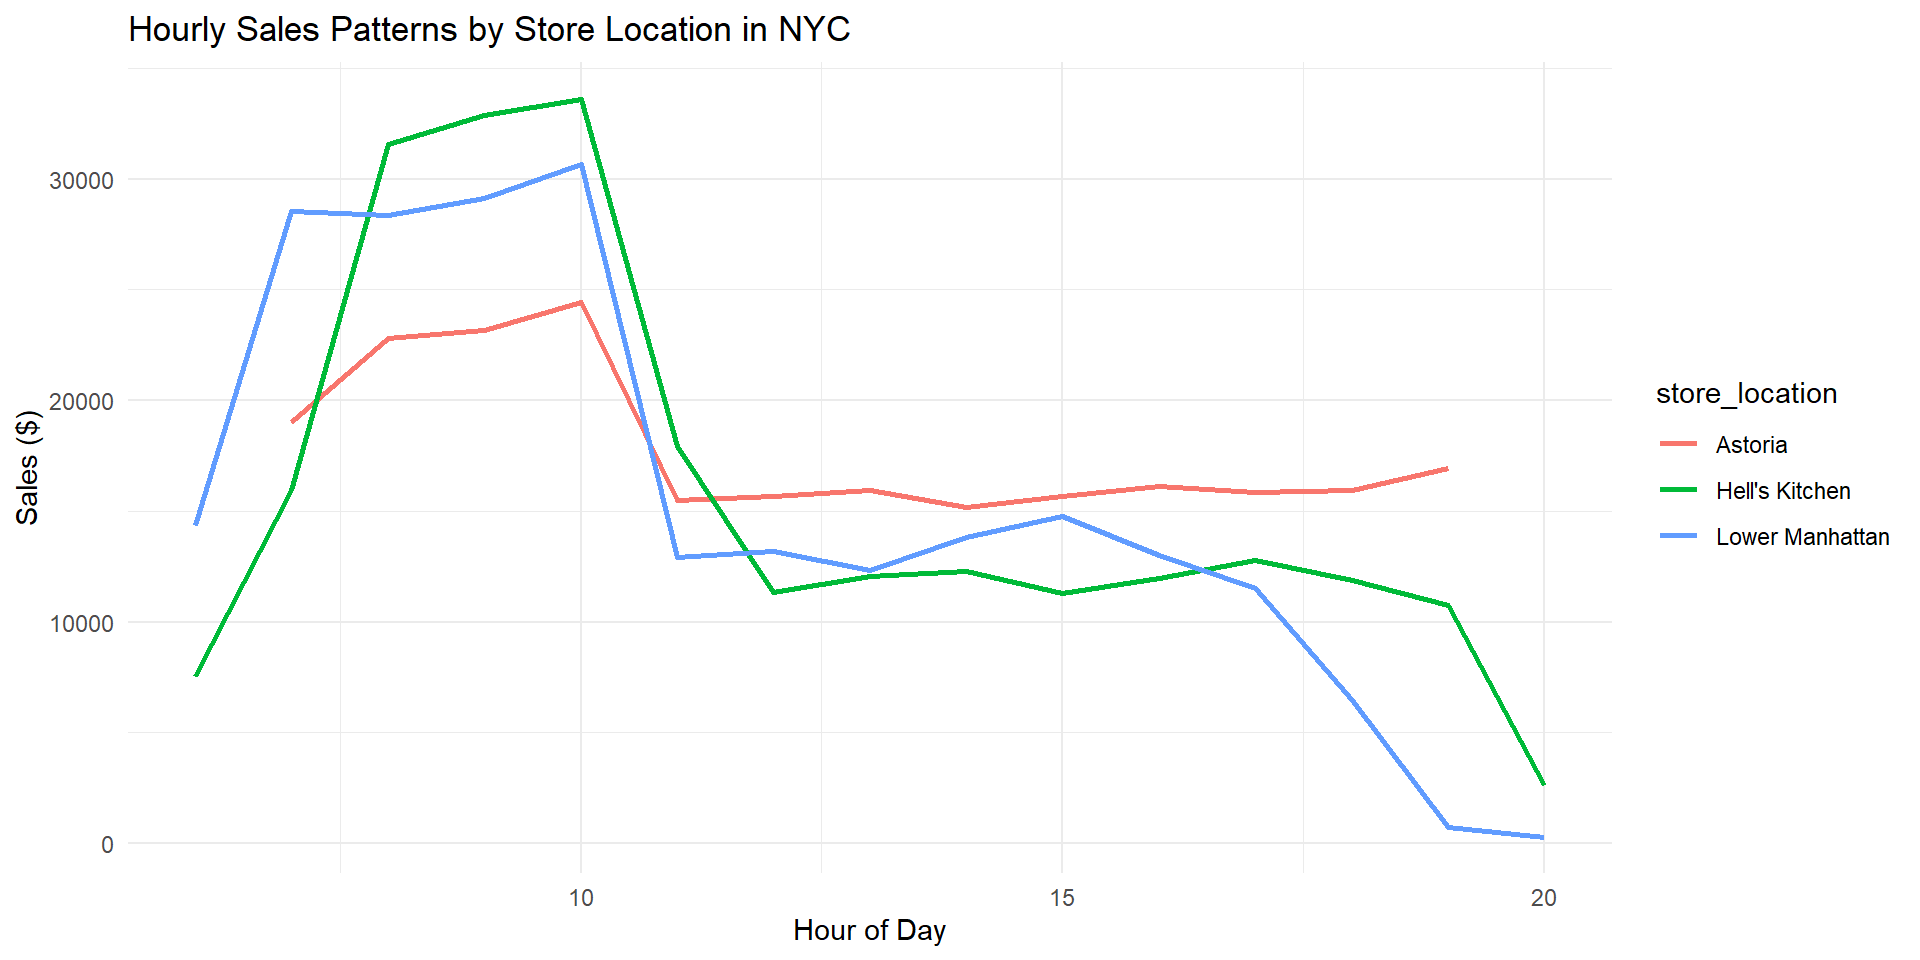
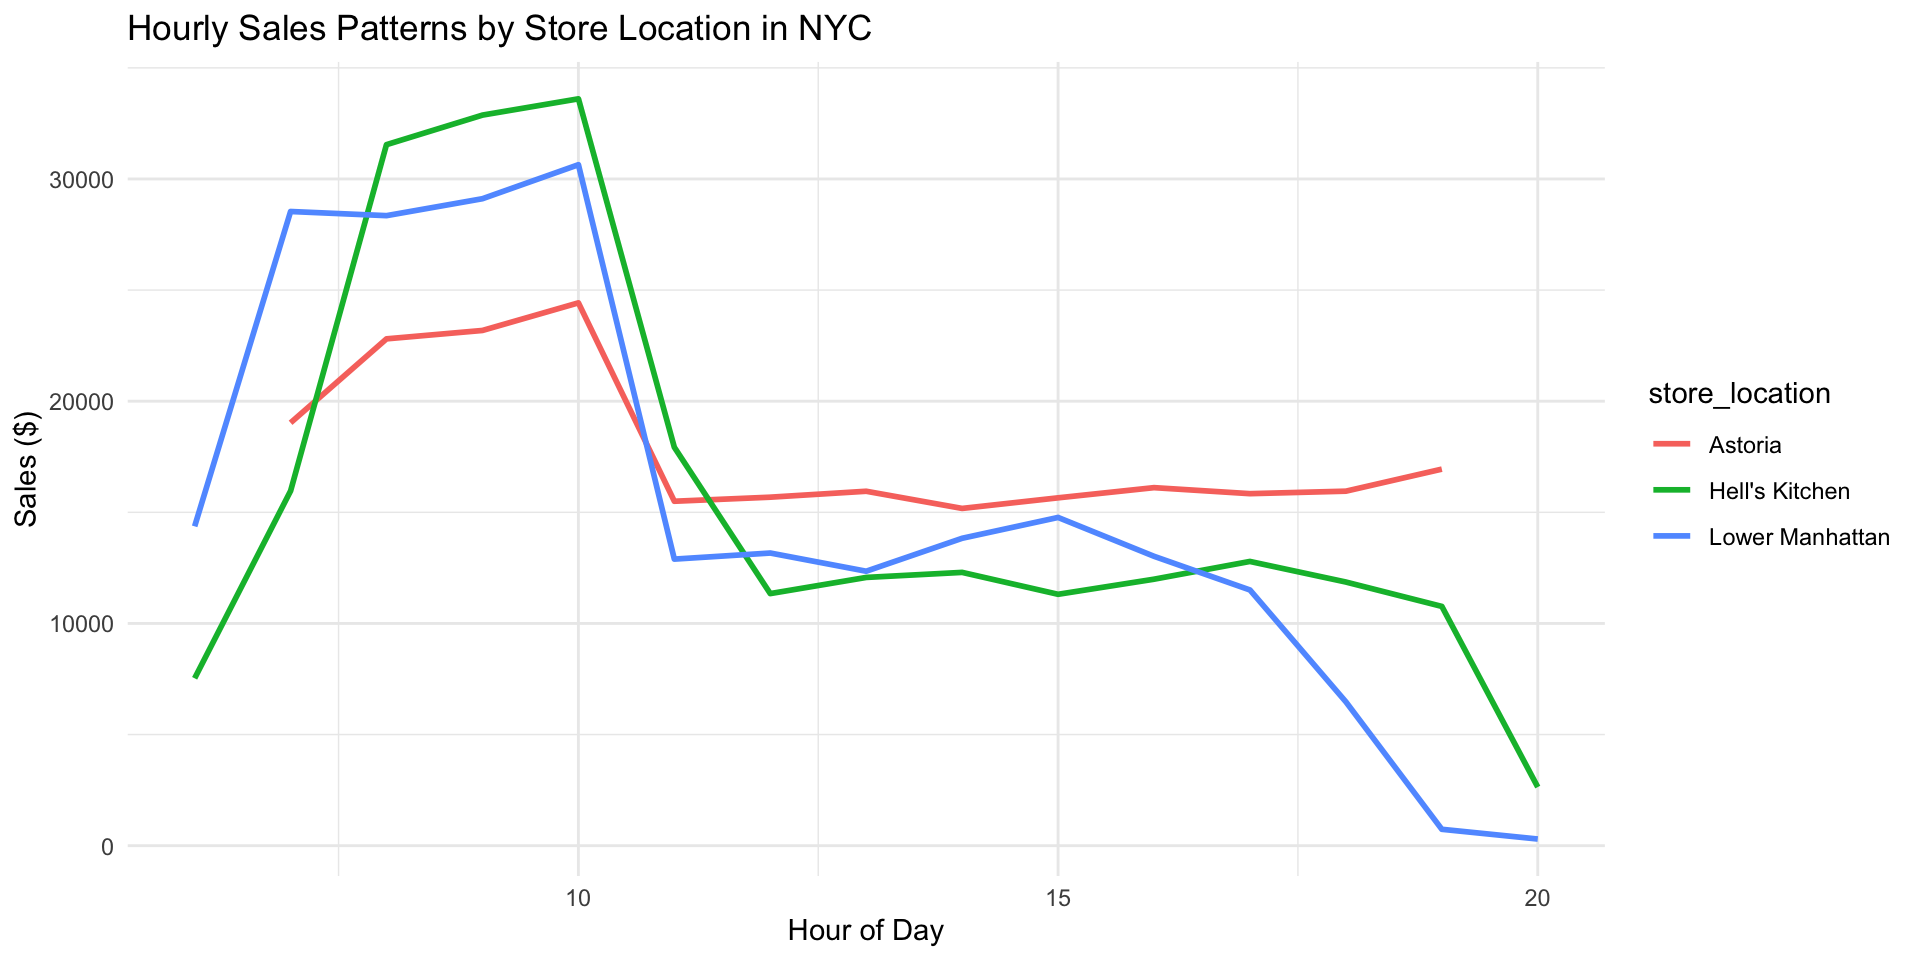
Grammar and punctuation checks on slides

diff --git a/Slides.html b/Slides.html
@@ -6,8 +6,8 @@
 <script src="Slides_files/libs/quarto-html/tippy.umd.min.js"></script>
 <link href="Slides_files/libs/quarto-html/tippy.css" rel="stylesheet">
 <link href="Slides_files/libs/quarto-html/light-border.css" rel="stylesheet">
-<link href="Slides_files/libs/quarto-html/quarto-syntax-highlighting-7c69b197886ae2a34062761d21e44731.css" rel="stylesheet" id="quarto-text-highlighting-styles"><meta charset="utf-8">
-  <meta name="generator" content="quarto-1.9.31">
+<link href="Slides_files/libs/quarto-html/quarto-syntax-highlighting-7f8f88aac4f3542376d5c11b86a4c14d.css" rel="stylesheet" id="quarto-text-highlighting-styles"><meta charset="utf-8">
+  <meta name="generator" content="quarto-1.9.37">
 
   <meta name="author" content="Caryn Kesuma">
   <meta name="author" content="Shruti Pillai">
@@ -128,9 +128,7 @@
     }
   </style>
   <script src="Slides_files/libs/kePrint-0.0.1/kePrint.js"></script>
-
   <link href="Slides_files/libs/lightable-0.0.1/lightable.css" rel="stylesheet">
-
 </head>
 <body class="quarto-light">
   <div class="reveal">
@@ -175,7 +173,7 @@ Thunchanok Udomittipong
 <section id="dataset-introduction" class="slide level2 small-slide">
 <h2>Dataset Introduction</h2>
 
-<img data-src="Slides_files/figure-revealjs/data-dict.png" width="608" class="r-stretch"></section>
+<img data-src="Slides_files/figure-revealjs/data-dict.png" class="r-stretch"></section>
 <section id="store-location-analysis" class="slide level2">
 <h2>Store Location Analysis</h2>
 <div style="font-size: 0.7em">
@@ -610,80 +608,42 @@ Thunchanok Udomittipong
       });
     </script>
     
-
     <script>
-
       // htmlwidgets need to know to resize themselves when slides are shown/hidden.
-
       // Fire the "slideenter" event (handled by htmlwidgets.js) when the current
-
       // slide changes (different for each slide format).
-
       (function () {
-
         // dispatch for htmlwidgets
-
         function fireSlideEnter() {
-
           const event = window.document.createEvent("Event");
-
           event.initEvent("slideenter", true, true);
-
           window.document.dispatchEvent(event);
-
         }
-
-    
 
         function fireSlideChanged(previousSlide, currentSlide) {
-
           fireSlideEnter();
 
-    
-
           // dispatch for shiny
-
           if (window.jQuery) {
-
             if (previousSlide) {
-
               window.jQuery(previousSlide).trigger("hidden");
-
             }
-
             if (currentSlide) {
-
               window.jQuery(currentSlide).trigger("shown");
-
             }
-
           }
-
         }
-
-    
 
         // hookup for slidy
-
         if (window.w3c_slidy) {
-
           window.w3c_slidy.add_observer(function (slide_num) {
-
             // slide_num starts at position 1
-
             fireSlideChanged(null, w3c_slidy.slides[slide_num - 1]);
-
           });
-
         }
 
-    
-
       })();
-
     </script>
-
-    
 
     <script id="quarto-html-after-body" type="application/javascript">
       window.document.addEventListener("DOMContentLoaded", function (event) {